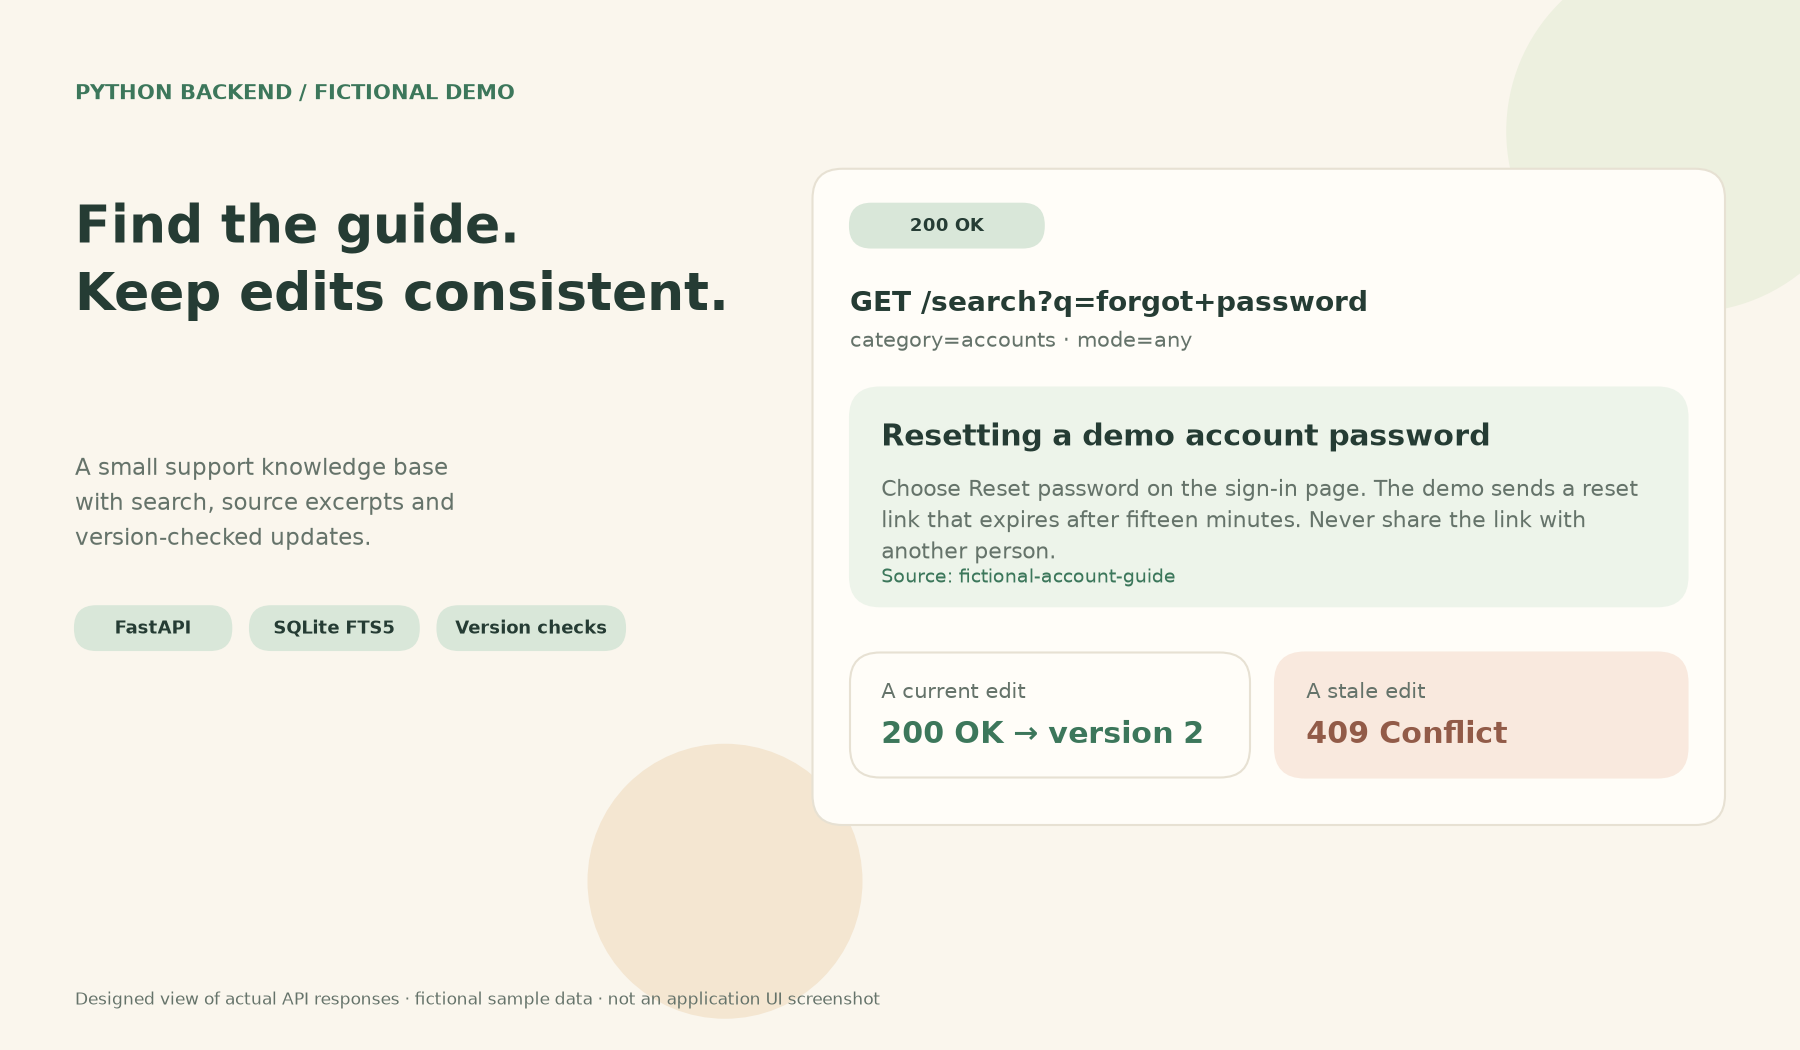
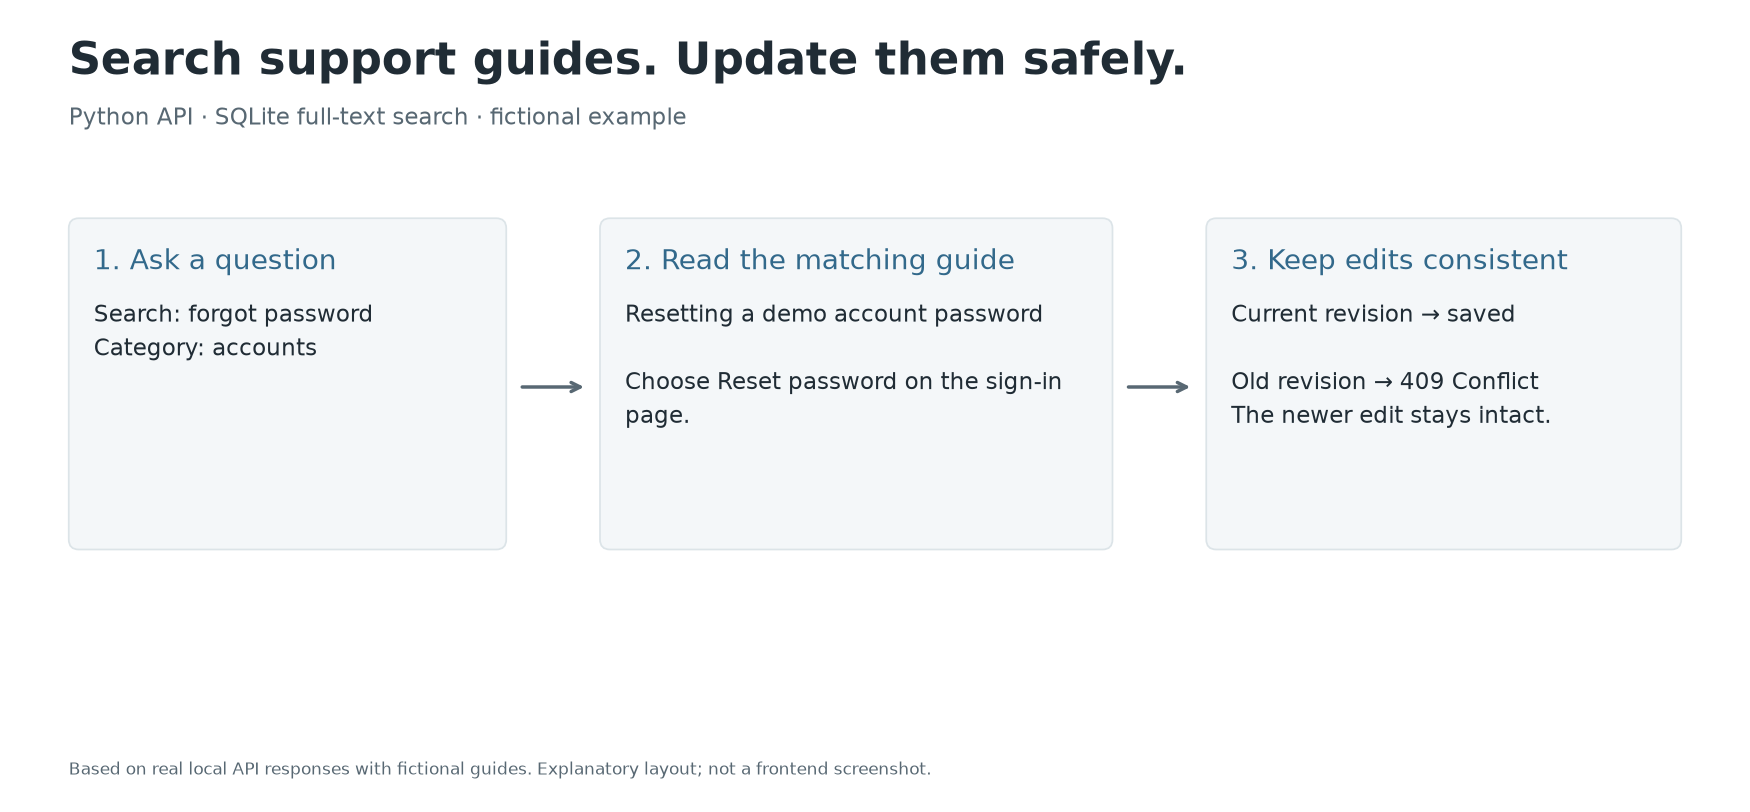
Explain each project with direct examples and readable output

diff --git a/README.md b/README.md
@@ -2,9 +2,9 @@
 
 **Keep support guides searchable, current and safe from conflicting edits.**
 
-![Designed view of actual API responses from fictional demo guides; not a frontend screenshot.](docs/media/knowledge-base-preview.png)
+![From a support question to a matching guide and a safe update; fictional API example.](docs/media/knowledge-base-preview.png)
 
-*Designed view of actual API responses from fictional demo guides; not a frontend screenshot.*
+*From a support question to a matching guide and a safe update; fictional API example.*
 
 A small Python backend for a support guide library. Store instructions for account access, billing and delivery, then find relevant passages with their sources. When a guide changes, update it without silently overwriting another editor's work.
 
